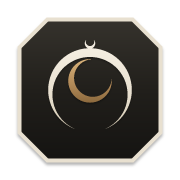
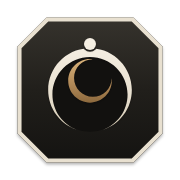
Marks: dark interiors in Astrolabe and Alidade, and the Astrolabe top disc
The Astrolabe plate and the Alidade triangle are filled with the dark
interior colour #12110f, and the Astrolabe shackle becomes a solid disc
with a clear ring around it. The icon references are bumped so browsers
fetch the new files.

Claude-Session: https://claude.ai/code/session_01VE6j3WRdUkYkmdJG6Q3Me5

diff --git a/site/index.html b/site/index.html
@@ -8,7 +8,7 @@
 <meta name="theme-color" content="#12110f">
 <link rel="canonical" href="https://ahmedkhan-gh.github.io/astrolabe/">
 <link rel="icon" href="assets/astrolabe-icon-32.png" sizes="32x32">
-<link rel="icon" href="assets/astrolabe-icon.svg?v=10" type="image/svg+xml">
+<link rel="icon" href="assets/astrolabe-icon.svg?v=11" type="image/svg+xml">
 <link rel="apple-touch-icon" href="assets/astrolabe-icon-180.png">
 <meta property="og:title" content="Astrolabe">
 <meta property="og:description" content="Astrolabe, the intelligence augmented productivity framework from Sternbild. One app for specialized work.">
@@ -134,7 +134,7 @@
 
 <nav>
   <div class="wrap">
-    <a class="brand" href="#top"><img src="assets/astrolabe-icon.svg?v=10" alt=""><span>ASTROLABE</span></a>
+    <a class="brand" href="#top"><img src="assets/astrolabe-icon.svg?v=11" alt=""><span>ASTROLABE</span></a>
     <div class="links">
       <a href="docs/">Docs</a>
       <a href="https://github.com/AhmedKhan-GH/astrolabe">GitHub ↗</a>
@@ -169,7 +169,7 @@
     </g>
   </svg>
   <div class="wrap">
-    <img class="hero-mark" src="assets/astrolabe-icon.svg?v=10" alt="Astrolabe" width="136" height="136">
+    <img class="hero-mark" src="assets/astrolabe-icon.svg?v=11" alt="Astrolabe" width="136" height="136">
     <h1>Astrolabe</h1>
     <p class="tagline">Intelligence augmented productivity framework</p>
     <p class="lede">One app for specialized work. Move between your tools, with agents where you choose.</p>
@@ -187,9 +187,9 @@
       <h2>Alidade, then Astrolabe</h2>
       <p class="intro">Learn the niche of your field in Alidade, and then do the work at speed in Astrolabe.</p>
       <div class="flow">
-        <a class="stage" href="https://ahmedkhan-gh.github.io/alidade/"><span class="step">Learn</span><img src="assets/alidade-icon.svg?v=2" alt="" width="104" height="104"><span class="name">Alidade</span><span class="role">Learning harness</span><span class="visit">Visit &rarr;</span></a>
+        <a class="stage" href="https://ahmedkhan-gh.github.io/alidade/"><span class="step">Learn</span><img src="assets/alidade-icon.svg?v=3" alt="" width="104" height="104"><span class="name">Alidade</span><span class="role">Learning harness</span><span class="visit">Visit &rarr;</span></a>
         <svg class="flow-arrow" viewBox="0 0 132 24" preserveAspectRatio="none" aria-hidden="true"><line x1="14" y1="12" x2="110" y2="12"/><path d="M118 12 L106 6.5 L106 17.5 Z"/></svg>
-        <div class="stage here" aria-current="page"><span class="step">Work</span><img src="assets/astrolabe-icon.svg?v=10" alt="" width="104" height="104"><span class="name">Astrolabe</span><span class="role">Intelligence augmented productivity framework</span></div>
+        <div class="stage here" aria-current="page"><span class="step">Work</span><img src="assets/astrolabe-icon.svg?v=11" alt="" width="104" height="104"><span class="name">Astrolabe</span><span class="role">Intelligence augmented productivity framework</span></div>
       </div>
     </div>
   </section>
